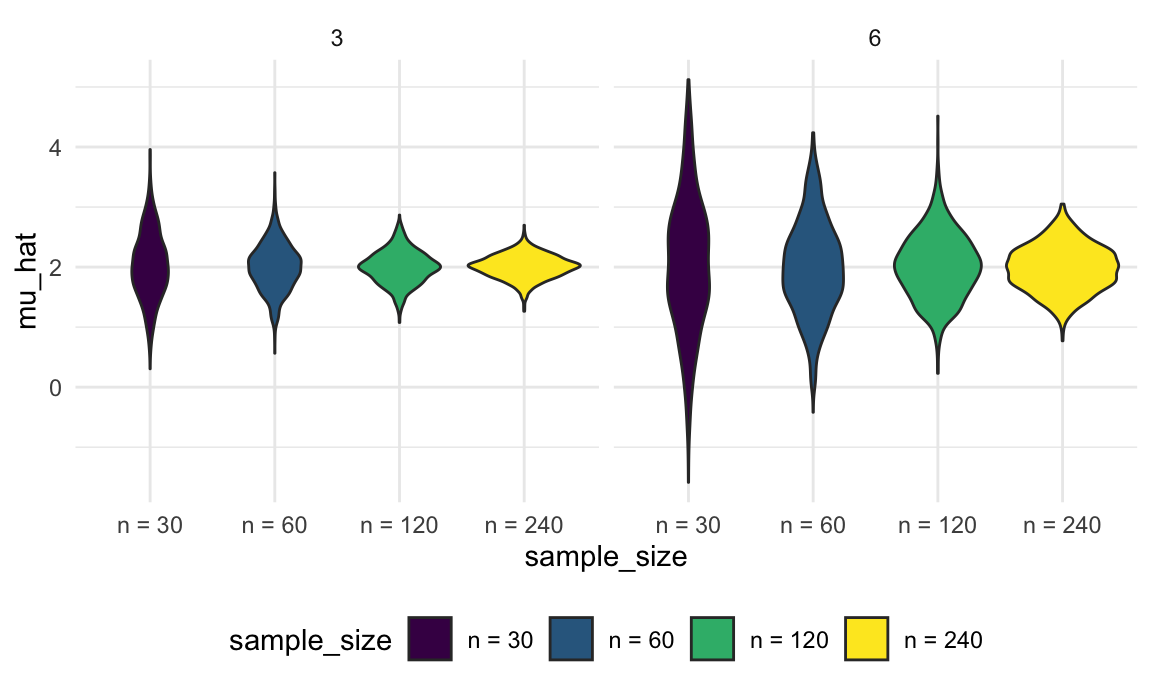
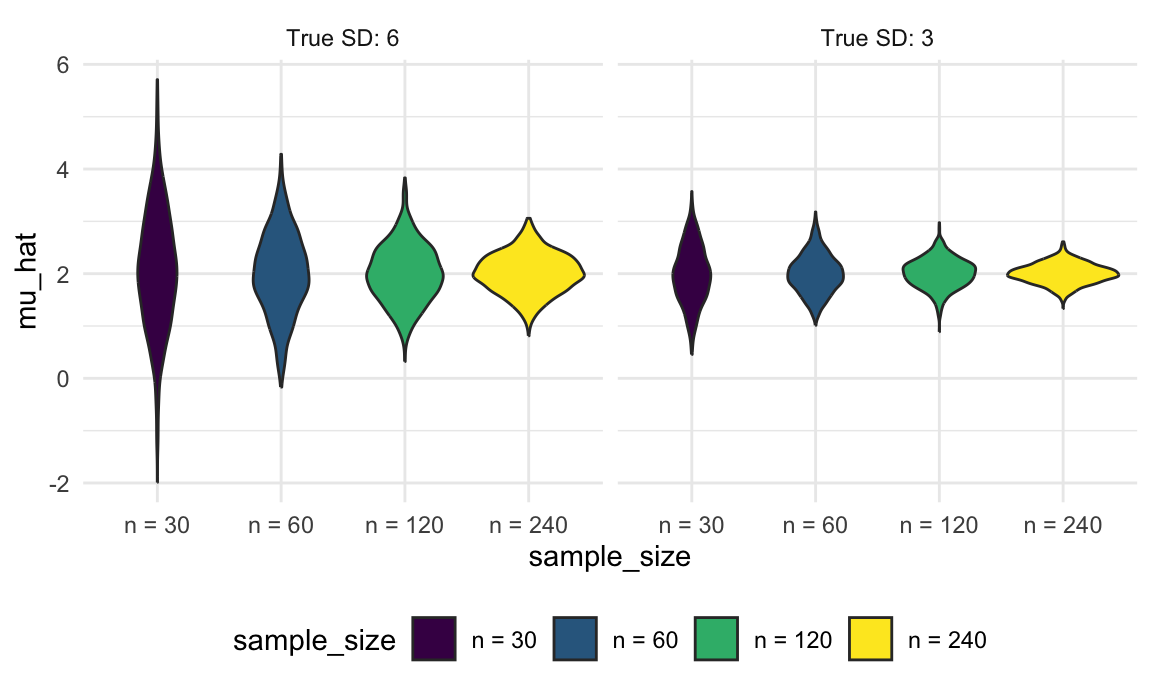
pre-lecture updates. added SLR, fleshed out anonymous functions, removed rerun

diff --git a/simulation.html b/simulation.html
@@ -13,7 +13,7 @@
 
 <title>Simulation</title>
 
-<script src="site_libs/header-attrs-2.20/header-attrs.js"></script>
+<script src="site_libs/header-attrs-2.24/header-attrs.js"></script>
 <script src="site_libs/jquery-3.6.0/jquery-3.6.0.min.js"></script>
 <meta name="viewport" content="width=device-width, initial-scale=1" />
 <link href="site_libs/bootstrap-3.3.5/css/cosmo.min.css" rel="stylesheet" />
@@ -29,14 +29,14 @@
        h6 {font-size: 12px;}
        code {color: inherit; background-color: rgba(0, 0, 0, 0.04);}
        pre:not([class]) { background-color: white }</style>
-<script src="site_libs/jqueryui-1.11.4/jquery-ui.min.js"></script>
+<script src="site_libs/jqueryui-1.13.2/jquery-ui.min.js"></script>
 <link href="site_libs/tocify-1.9.1/jquery.tocify.css" rel="stylesheet" />
 <script src="site_libs/tocify-1.9.1/jquery.tocify.js"></script>
 <script src="site_libs/navigation-1.1/tabsets.js"></script>
 <link href="site_libs/highlightjs-9.12.0/default.css" rel="stylesheet" />
 <script src="site_libs/highlightjs-9.12.0/highlight.js"></script>
-<link href="site_libs/font-awesome-5.1.0/css/all.css" rel="stylesheet" />
-<link href="site_libs/font-awesome-5.1.0/css/v4-shims.css" rel="stylesheet" />
+<link href="site_libs/font-awesome-6.4.2/css/all.min.css" rel="stylesheet" />
+<link href="site_libs/font-awesome-6.4.2/css/v4-shims.min.css" rel="stylesheet" />
 <link rel="stylesheet" href="https://maxcdn.bootstrapcdn.com/font-awesome/latest/css/font-awesome.min.css" />
 <script defer src="https://use.fontawesome.com/releases/v5.0.3/js/all.js"></script>
 <script defer src="https://use.fontawesome.com/releases/v5.0.0/js/v4-shims.js"></script>
@@ -503,7 +503,7 @@ function is below.</p>
     x = rnorm(n, mean = mu, sd = sigma),
   )
   
-  sim_data %&gt;% 
+  sim_data |&gt; 
     summarize(
       mu_hat = mean(x),
       sigma_hat = sd(x)
@@ -551,27 +551,27 @@ previous loop.</p>
   expand_grid(
     sample_size = 30,
     iter = 1:100
-  ) %&gt;% 
+  ) |&gt; 
   mutate(
     estimate_df = map(sample_size, sim_mean_sd)
-  ) %&gt;% 
+  ) |&gt; 
   unnest(estimate_df)</code></pre>
 <p>Critically, the result is a dataframe which can be manipulated or
 used in ways we’re now pretty familiar with. Let’s make some quick plots
 and compute some summaries for our simulation results.</p>
-<pre class="r"><code>sim_results_df %&gt;% 
+<pre class="r"><code>sim_results_df |&gt; 
   ggplot(aes(x = mu_hat)) + 
   geom_density()</code></pre>
 <p><img src="simulation_files/figure-html/unnamed-chunk-5-1.png" width="90%" /></p>
-<pre class="r"><code>sim_results_df %&gt;% 
+<pre class="r"><code>sim_results_df |&gt; 
   pivot_longer(
     mu_hat:sigma_hat,
     names_to = &quot;parameter&quot;, 
-    values_to = &quot;estimate&quot;) %&gt;% 
-  group_by(parameter) %&gt;% 
+    values_to = &quot;estimate&quot;) |&gt; 
+  group_by(parameter) |&gt; 
   summarize(
     emp_mean = mean(estimate),
-    emp_sd = sd(estimate)) %&gt;% 
+    emp_sd = sd(estimate)) |&gt; 
   knitr::kable(digits = 3)</code></pre>
 <table>
 <thead>
@@ -599,6 +599,15 @@ are distributed under our simulation scenario, and can compare empirical
 results to theoretical ones. In this way, we can build intuition for
 fundamental statistical procedures under repeated sampling in a way
 that’s not possible with single data sets.</p>
+<p>In cases like this, where the inputs to the function don’t change,
+using an “anonymous” function can be a helpful shorthand. Here the
+syntax <code>(i)</code> defines a function with the input
+<code>i</code>, and that function just runs
+<code>sim_mean_sd(30, 2, 3)</code> without actually using
+<code>i</code>.</p>
+<pre class="r"><code>sim_results_df =   
+  map(1:100, \(i) sim_mean_sd(30, 2, 3)) |&gt; 
+  bind_rows()</code></pre>
 </div>
 <div id="simulation-mean-for-several-ns" class="section level3">
 <h3>Simulation: Mean for several <span
@@ -615,35 +624,35 @@ and <code>unnest</code> the result.</p>
   expand_grid(
     sample_size = c(30, 60, 120, 240),
     iter = 1:1000
-  ) %&gt;% 
+  ) |&gt; 
   mutate(
     estimate_df = map(sample_size, sim_mean_sd)
-  ) %&gt;% 
+  ) |&gt; 
   unnest(estimate_df)</code></pre>
 <p>Let’s take a look at what we’ve accomplished in our simulations!
 First I’ll take a look at the distribution of mean estimates across
 sample sizes.</p>
-<pre class="r"><code>sim_results_df %&gt;% 
+<pre class="r"><code>sim_results_df |&gt; 
   mutate(
     sample_size = str_c(&quot;n = &quot;, sample_size),
-    sample_size = fct_inorder(sample_size)) %&gt;% 
+    sample_size = fct_inorder(sample_size)) |&gt; 
   ggplot(aes(x = sample_size, y = mu_hat, fill = sample_size)) + 
   geom_violin()</code></pre>
-<p><img src="simulation_files/figure-html/unnamed-chunk-7-1.png" width="90%" /></p>
+<p><img src="simulation_files/figure-html/unnamed-chunk-8-1.png" width="90%" /></p>
 <p>These estimates are centered around the truth (2) for each sample
 size, and the width of the distribution shrinks as sample size
 grows.</p>
 <p>Lastly I’ll look at the empirical mean and variance of these
 estimates.</p>
-<pre class="r"><code>sim_results_df %&gt;% 
+<pre class="r"><code>sim_results_df |&gt; 
   pivot_longer(
     mu_hat:sigma_hat,
     names_to = &quot;parameter&quot;, 
-    values_to = &quot;estimate&quot;) %&gt;% 
-  group_by(parameter, sample_size) %&gt;% 
+    values_to = &quot;estimate&quot;) |&gt; 
+  group_by(parameter, sample_size) |&gt; 
   summarize(
     emp_mean = mean(estimate),
-    emp_var = var(estimate)) %&gt;% 
+    emp_var = var(estimate)) |&gt; 
   knitr::kable(digits = 3)</code></pre>
 <pre><code>## `summarise()` has grouped output by &#39;parameter&#39;. You can override using the
 ## `.groups` argument.</code></pre>
@@ -660,50 +669,50 @@ estimates.</p>
 <tr class="odd">
 <td align="left">mu_hat</td>
 <td align="right">30</td>
-<td align="right">2.005</td>
-<td align="right">0.274</td>
+<td align="right">2.001</td>
+<td align="right">0.289</td>
 </tr>
 <tr class="even">
 <td align="left">mu_hat</td>
 <td align="right">60</td>
-<td align="right">1.989</td>
-<td align="right">0.148</td>
+<td align="right">1.992</td>
+<td align="right">0.147</td>
 </tr>
 <tr class="odd">
 <td align="left">mu_hat</td>
 <td align="right">120</td>
-<td align="right">2.006</td>
+<td align="right">2.005</td>
 <td align="right">0.079</td>
 </tr>
 <tr class="even">
 <td align="left">mu_hat</td>
 <td align="right">240</td>
 <td align="right">1.999</td>
-<td align="right">0.040</td>
+<td align="right">0.038</td>
 </tr>
 <tr class="odd">
 <td align="left">sigma_hat</td>
 <td align="right">30</td>
-<td align="right">2.976</td>
-<td align="right">0.151</td>
+<td align="right">2.974</td>
+<td align="right">0.154</td>
 </tr>
 <tr class="even">
 <td align="left">sigma_hat</td>
 <td align="right">60</td>
-<td align="right">3.000</td>
-<td align="right">0.069</td>
+<td align="right">2.999</td>
+<td align="right">0.068</td>
 </tr>
 <tr class="odd">
 <td align="left">sigma_hat</td>
 <td align="right">120</td>
-<td align="right">2.997</td>
+<td align="right">2.996</td>
 <td align="right">0.039</td>
 </tr>
 <tr class="even">
 <td align="left">sigma_hat</td>
 <td align="right">240</td>
-<td align="right">2.992</td>
-<td align="right">0.021</td>
+<td align="right">2.994</td>
+<td align="right">0.018</td>
 </tr>
 </tbody>
 </table>
@@ -712,76 +721,113 @@ distribution of the sample mean. This kind of check is a useful way to
 support derivations (although they don’t serve as a formal proof in any
 way).</p>
 </div>
-<div id="using-rerun" class="section level3">
-<h3>Using <code>rerun</code></h3>
-<p>In cases like these, where the inputs to the function you’re running
-don’t change, the <code>purrr::rerun</code> function can be very
-handy.</p>
-<pre class="r"><code>sim_results_df =   
-  rerun(100, sim_mean_sd(30, 2, 3)) %&gt;% 
-  bind_rows()</code></pre>
-<p>Structurally, <code>rerun</code> is a lot like <code>map</code> – the
-first argument defines the amount of iteration and the second argument
-is the function to use in each iteration step. As with <code>map</code>,
-we’ve replaced a for loop with a segment of code that makes our purpose
-much more transparent but both approaches give the same results.</p>
-<p>I can use this process to investigate several sample sizes as well.
-I’ll start with a for loop around the code I established above using
-<code>rerun</code> (I could start from scratch by nesting one for loop
-in another for loop, but let’s not).</p>
-<pre class="r"><code>n_list = 
-  list(
-    &quot;n_30&quot;  = 30, 
-    &quot;n_60&quot;  = 60, 
-    &quot;n_120&quot; = 120, 
-    &quot;n_240&quot; = 240)
-
-output = vector(&quot;list&quot;, length = 4)
-
-for (i in 1:4) {
-  output[[i]] = rerun(100, sim_mean_sd(n_list[[i]])) %&gt;% 
-    bind_rows
+<div id="simulation-slr-for-one-n" class="section level3">
+<h3>Simulation: SLR for one <span class="math inline">\(n\)</span></h3>
+<p>The distribution of the sample mean is critical in statistics, but
+behaves in often familiar ways. Next we’ll use simulations to explore
+another very important setting that is sometimes surprising. In
+particular, we’ll use a function to we generate data from <span
+class="math display">\[ y_i = \beta_0 + \beta_1 x_i + \epsilon_i
+\]</span></p>
+<p>for subjects <span class="math inline">\(1 \leq i \leq n\)</span>
+with <span class="math inline">\(\epsilon_i \sim N[0,1]\)</span> and
+return estimates</p>
+<p><span class="math inline">\(\hat{\beta}_0,
+\hat{\beta}_1\)</span>.</p>
+<p>One implementation of this goal is shown below. This takes the sample
+size and true regression coefficients as inputs; simulates both
+<code>x</code> and <code>y</code>; fits the regression; and returns the
+estimated coefficients.</p>
+<pre class="r"><code>sim_regression = function(n, beta0 = 2, beta1 = 3) {
+  
+  sim_data = 
+    tibble(
+      x = rnorm(n, mean = 1, sd = 1),
+      y = beta0 + beta1 * x + rnorm(n, 0, 1)
+    )
+  
+  ls_fit = lm(y ~ x, data = sim_data)
+  
+  tibble(
+    beta0_hat = coef(ls_fit)[1],
+    beta1_hat = coef(ls_fit)[2]
+  )
 }</code></pre>
-<p>After this loop, <code>output</code> is a list of 4 data frames; each
-data frame contains the results of 100 simulations at different sample
-sizes.</p>
-<p>Before we spend time looking at the results of the simulation, let’s
-recast this using list columns and <code>map</code>. I’ll set up a
-tibble with the sample sizes I want to investigate, and then use
-<code>rerun</code> to perform the complete simulation for each sample
-size. Remember that <code>rerun</code> produces a list, so I’m going to
-use <code>bind_rows</code> to produce a tibble of simulation results for
-each sample size. Finally, I’ll <code>unnest</code> the tibbles to
-produce a standard data frame with no list columns.</p>
+<p>As for the sample mean, the repeated sampling framework can be used
+to establish properties of estimates <span
+class="math inline">\(\hat{\beta}_0, \hat{\beta}_1\)</span>. If you
+could draw repeatedly from the population, your estimates will have a
+known mean and covariance:</p>
+<p><span class="math display">\[ \hat{\beta}_0 \sim \left[\beta_0,
+\sigma^2 \left(\frac{1}{n} + \frac{\bar{x}}{\sum (x_i -
+\bar{x})^2}\right) \right] \mbox{ and } \hat{\beta}_1 \sim
+\left[\beta_1,\frac{\sigma^2}{\sum (x_i - \bar{x})^2} \right]
+\]</span></p>
+<p>(Because our simulation design generates errors from a Normal
+distribution we also know that the estimates follow a Normal
+distribution, although that’s not guaranteed by least squares
+estimation.)</p>
+<p>Again, though, “repeated sampling” remains conceptual for regression
+– but we can draw samples easily in simulations. We’ll use
+<code>map</code> to run <code>sim_regression()</code> 500 times and show
+the effect of randomness in <span
+class="math inline">\(\epsilon\)</span> on estimates <span
+class="math inline">\(\hat{\beta}_0, \hat{\beta}_1\)</span>.</p>
 <pre class="r"><code>sim_results_df = 
-  tibble(sample_size = c(30, 60, 120, 240)) %&gt;% 
+  expand_grid(
+    sample_size = 30,
+    iter = 1:500
+  ) |&gt; 
   mutate(
-    output_lists = map(.x = sample_size, ~rerun(1000, sim_mean_sd(n = .x))),
-    estimate_dfs = map(output_lists, bind_rows)) %&gt;% 
-  select(-output_lists) %&gt;% 
-  unnest(estimate_dfs)</code></pre>
-<p>The resulting object, <code>sim_results_df</code> is structured in
-the same way as it was when we used <code>map</code> instead of
-<code>rerun</code>, and can be used to generate similar plots and
-tables.</p>
+    estimate_df = map(sample_size, sim_regression)
+  ) |&gt; 
+  unnest(estimate_df)</code></pre>
+<p>Next we’ll plot the estimated coefficients against each other (<span
+class="math inline">\(\hat{\beta}_0\)</span> on the x axis and <span
+class="math inline">\(\hat{\beta}_1\)</span> on the y axis). Both
+estimators are “unbiased”, meaning that on average you get the right
+answer. But what’s striking about this plot is that the estimated
+coefficients are inversely correlated – a lower estimate of the
+intercept tends to imply a higher estimate of the slope.</p>
+<pre class="r"><code>sim_results_df |&gt; 
+  ggplot(aes(x = beta0_hat, y = beta1_hat)) + 
+  geom_point()</code></pre>
+<p><img src="simulation_files/figure-html/unnamed-chunk-11-1.png" width="90%" /></p>
 </div>
 <div id="varying-two-simulation-parameters" class="section level3">
 <h3>Varying two simulation parameters</h3>
+<p>In our last example, we’ll consider varying two parameters – the
+sample size and the true standard deviation in our simulation looking at
+the mean and SD. We can use <code>expand_grid()</code> again to consider
+all possible combinations of sample size and true SD, while also
+defining a variable to look at 1000 iterations of each combination.</p>
+<p>The key step in this code chunk is the use of <code>map2</code>,
+which allows mapping over two inputs to a function. We can also use an
+“anonymous” function which passes inputs <code>n</code> and
+<code>sd</code> to specific arguments in the <code>sim_mean_sd()</code>
+function.</p>
 <pre class="r"><code>sim_results_df = 
   expand_grid(
     sample_size = c(30, 60, 120, 240),
     true_sd = c(6, 3),
     iter = 1:1000
-  ) %&gt;% 
+  ) |&gt; 
   mutate(
     estimate_df = 
-      map2(.x = sample_size, .y = true_sd, ~sim_mean_sd(n = .x, sigma = .y))
-  ) %&gt;% 
+      map2(sample_size, true_sd, \(n, sd) sim_mean_sd(n = n, sigma = sd))
+  ) |&gt; 
   unnest(estimate_df)</code></pre>
-<pre class="r"><code>sim_results_df %&gt;% 
+<p>As before, once we have the results of this simulation, we can use
+graphical summaries to understand how the sample size and true SD relate
+to the distribution of the sample mean. For both true SDs, increasing
+the sample size results in a narrower distribution, and the distribution
+of the sample mean is wider when the true SD is larger.</p>
+<pre class="r"><code>sim_results_df |&gt; 
   mutate(
+    true_sd = str_c(&quot;True SD: &quot;, true_sd),
+    true_sd = fct_inorder(true_sd),
     sample_size = str_c(&quot;n = &quot;, sample_size),
-    sample_size = fct_inorder(sample_size)) %&gt;% 
+    sample_size = fct_inorder(sample_size)) |&gt; 
   ggplot(aes(x = sample_size, y = mu_hat, fill = sample_size)) + 
   geom_violin() + 
   facet_grid(. ~ true_sd)</code></pre>
